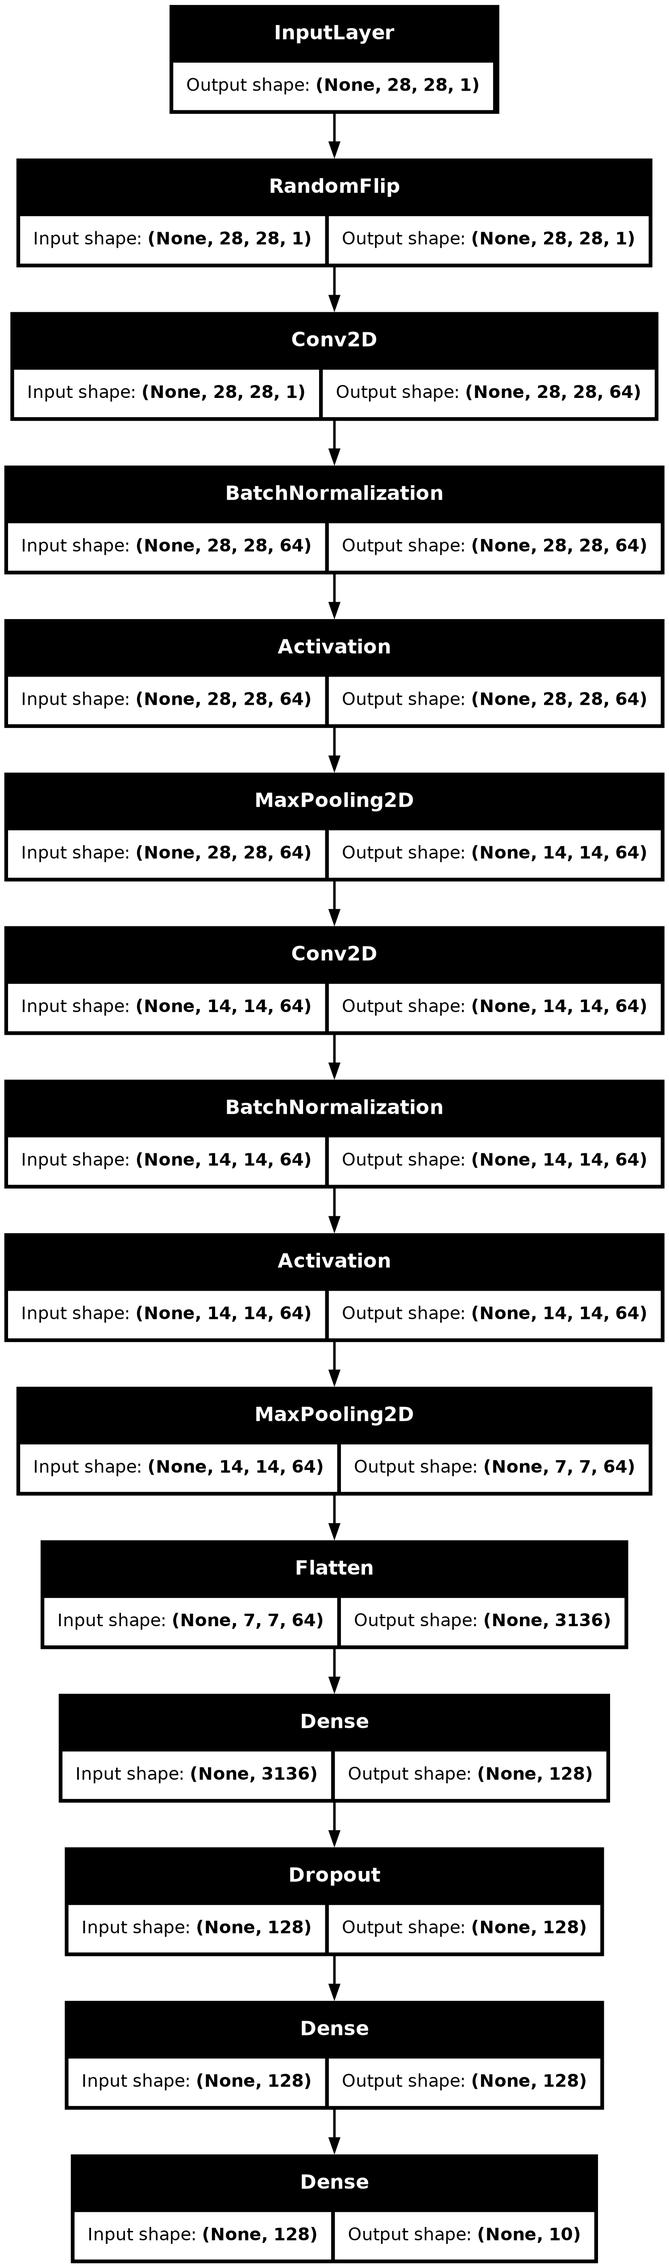
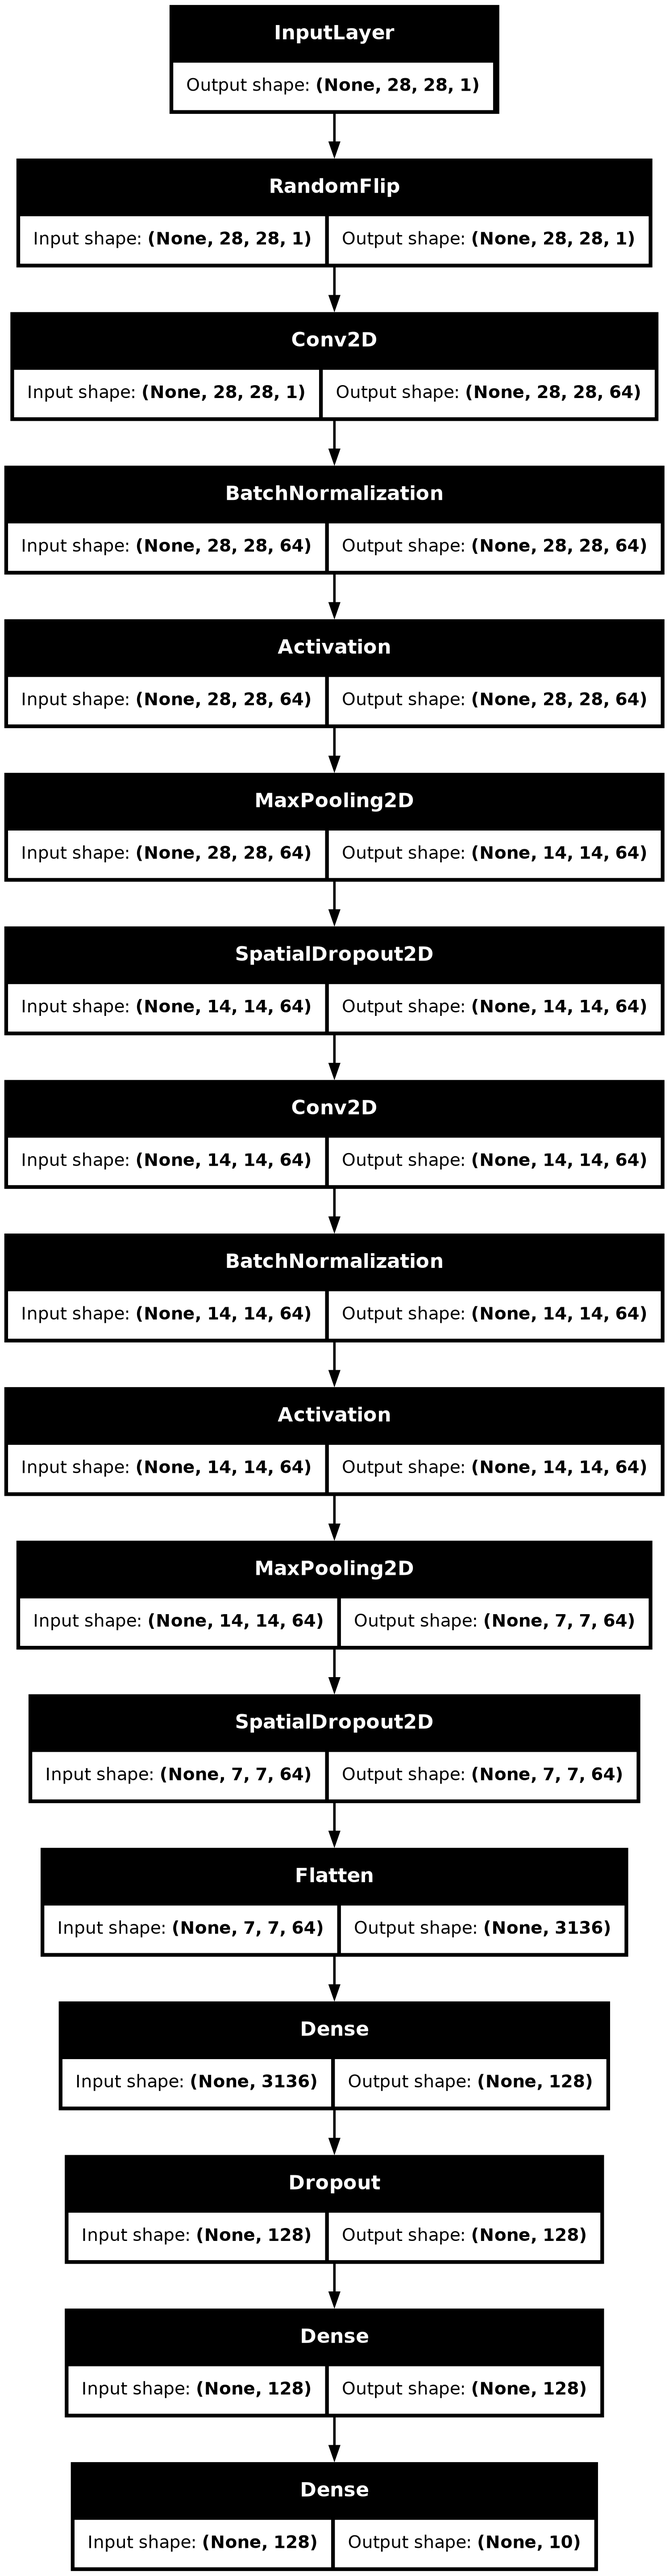
93% accuracy on Test [best for far]

diff --git a/mit_cnn.py b/mit_cnn.py
@@ -69,6 +69,7 @@ x = keras.layers.BatchNormalization()(x)
 x = keras.layers.Activation("relu")(x)
 #kernel means size of filter,32 is number of filters,activation relu and name conv_1
 x = keras.layers.MaxPool2D()(x) #this is a pooling layer
+x=keras.layers.SpatialDropout2D(0.1)(x)
 
 
 #this ends first convulational block
@@ -81,6 +82,7 @@ x = keras.layers.Conv2D(64,                    # Number of filters
 x = keras.layers.BatchNormalization()(x)
 x = keras.layers.Activation("relu")(x)
 x=keras.layers.MaxPool2D()(x)
+x=keras.layers.SpatialDropout2D(0.1)(x)
 #this is 2nd cnn block
 
 x = keras.layers.Flatten()(x)
@@ -107,7 +109,7 @@ model.compile(loss='sparse_categorical_crossentropy',
 history = model.fit(x_train,
                     y_train,
                     batch_size=64,
-                    epochs=40,
+                    epochs=60,
                     validation_split=0.2,
                     callbacks=callbacks)
 plot_loss_curves(history)
